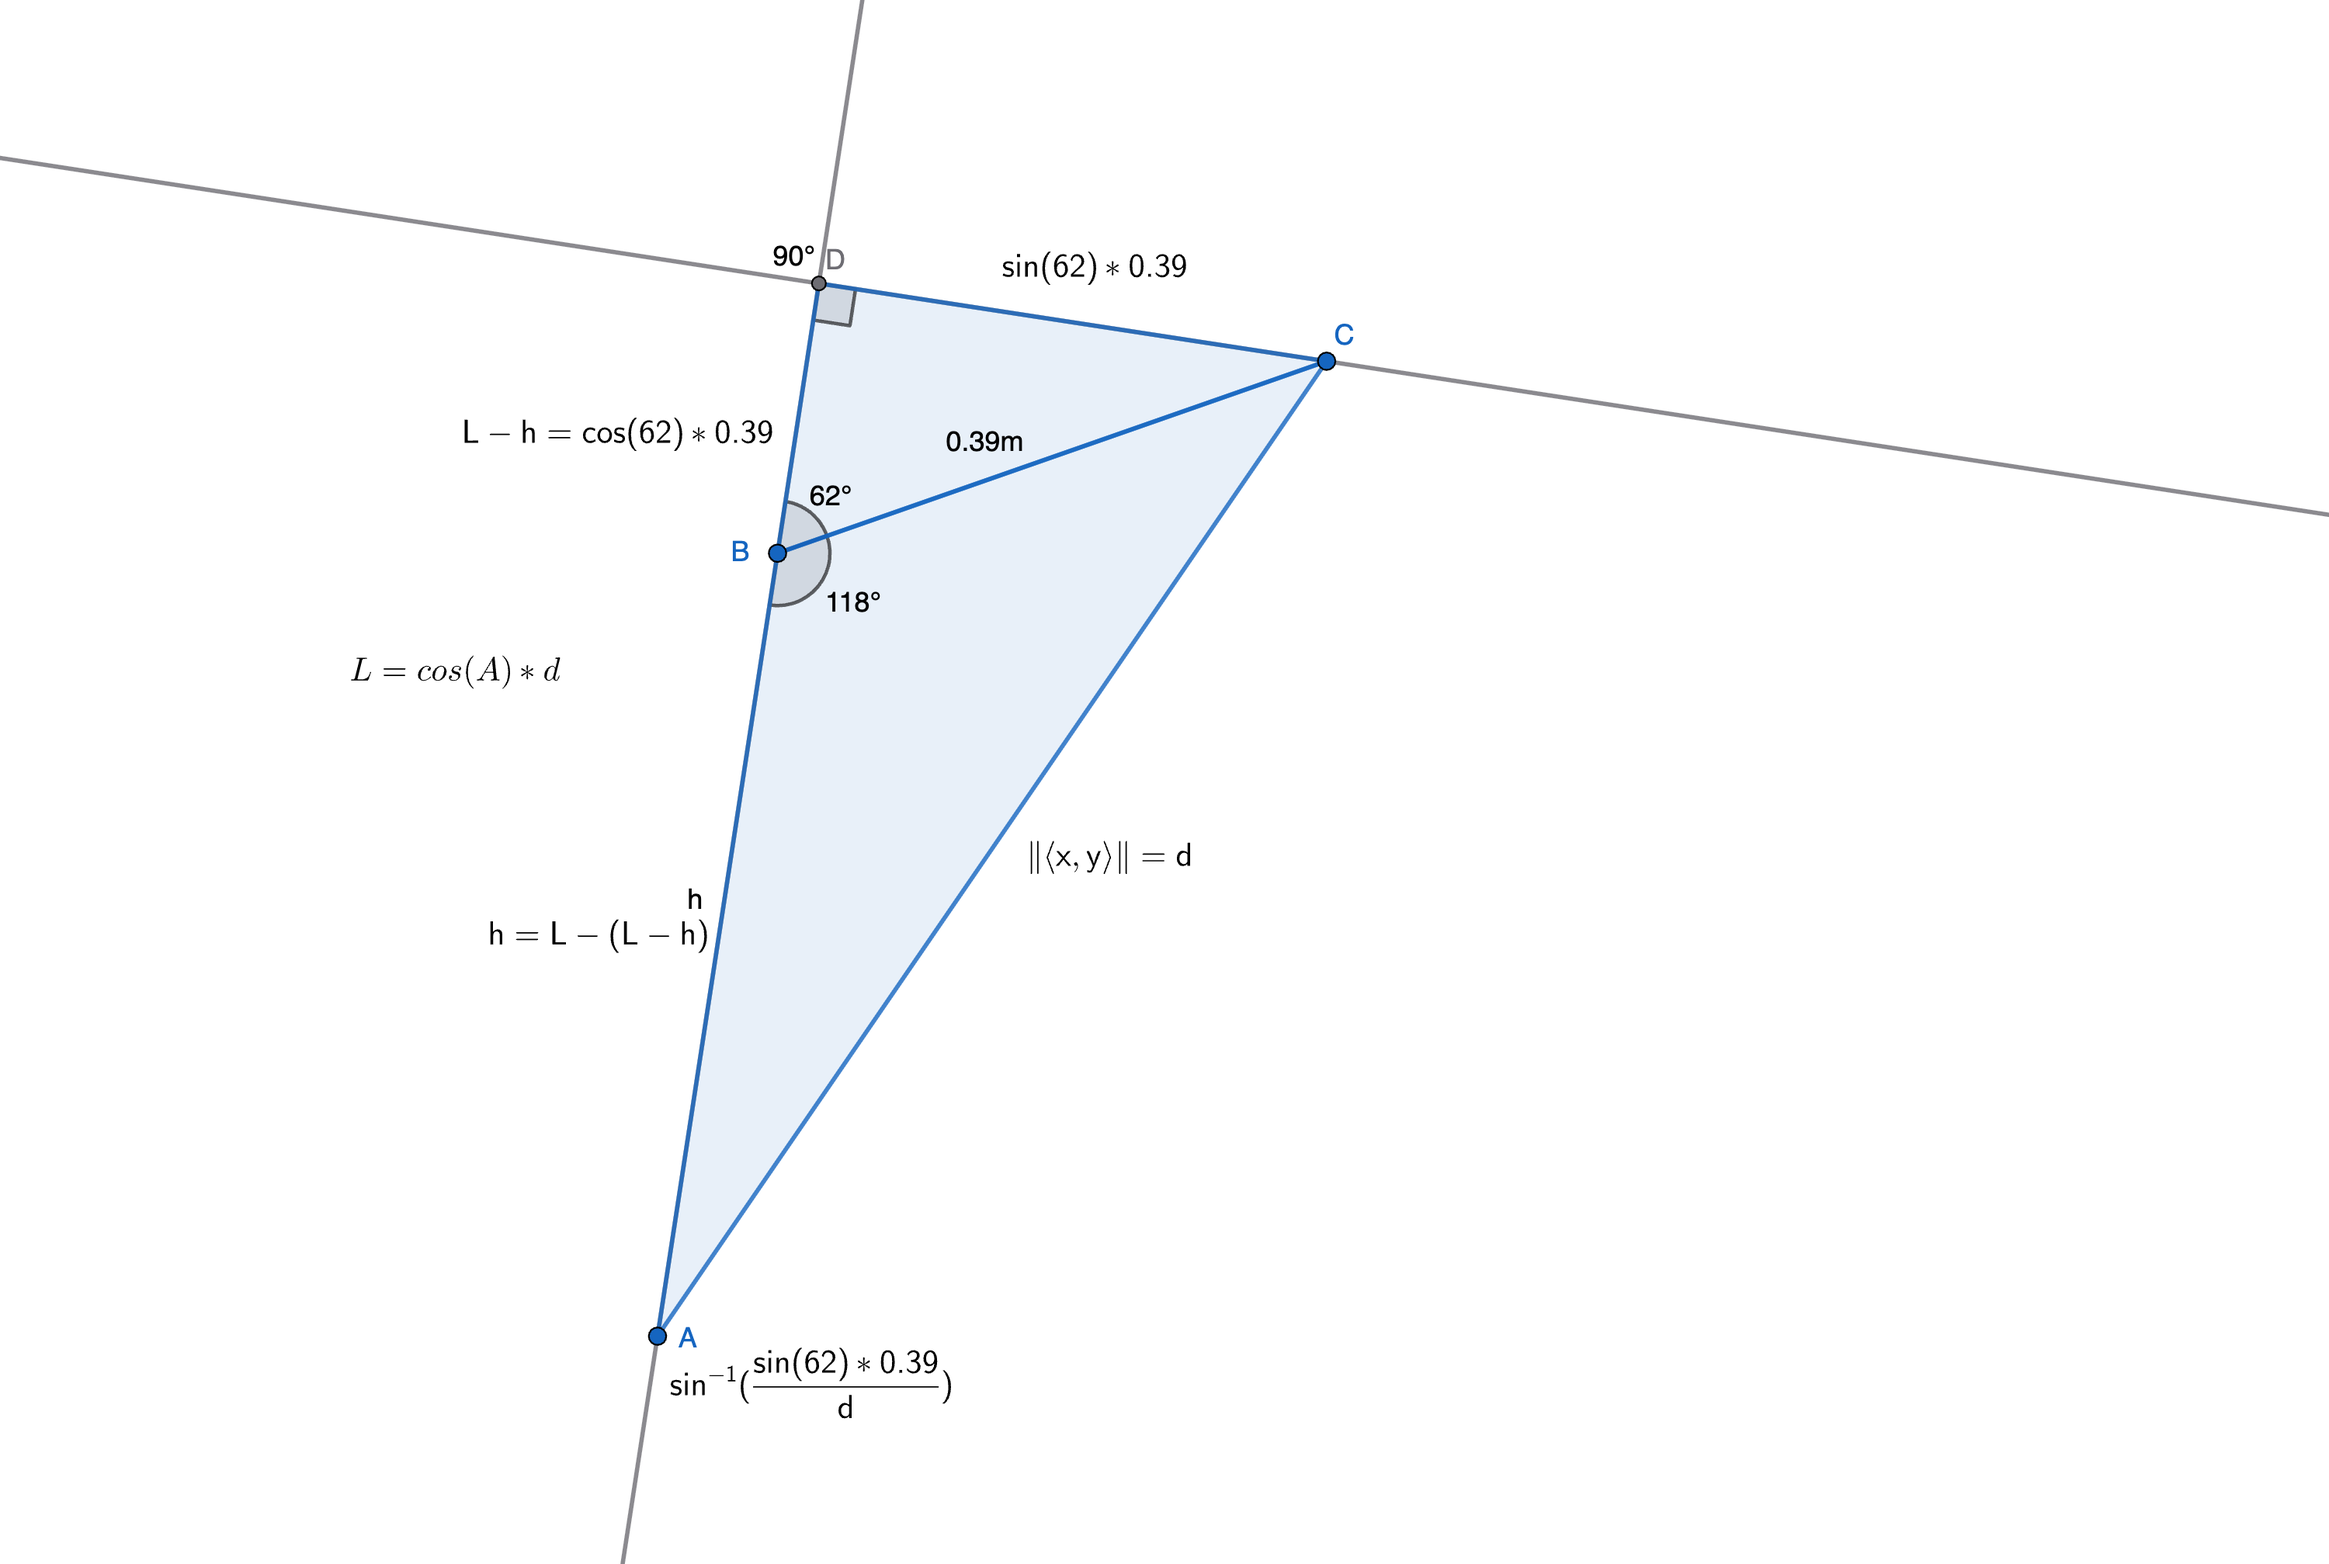
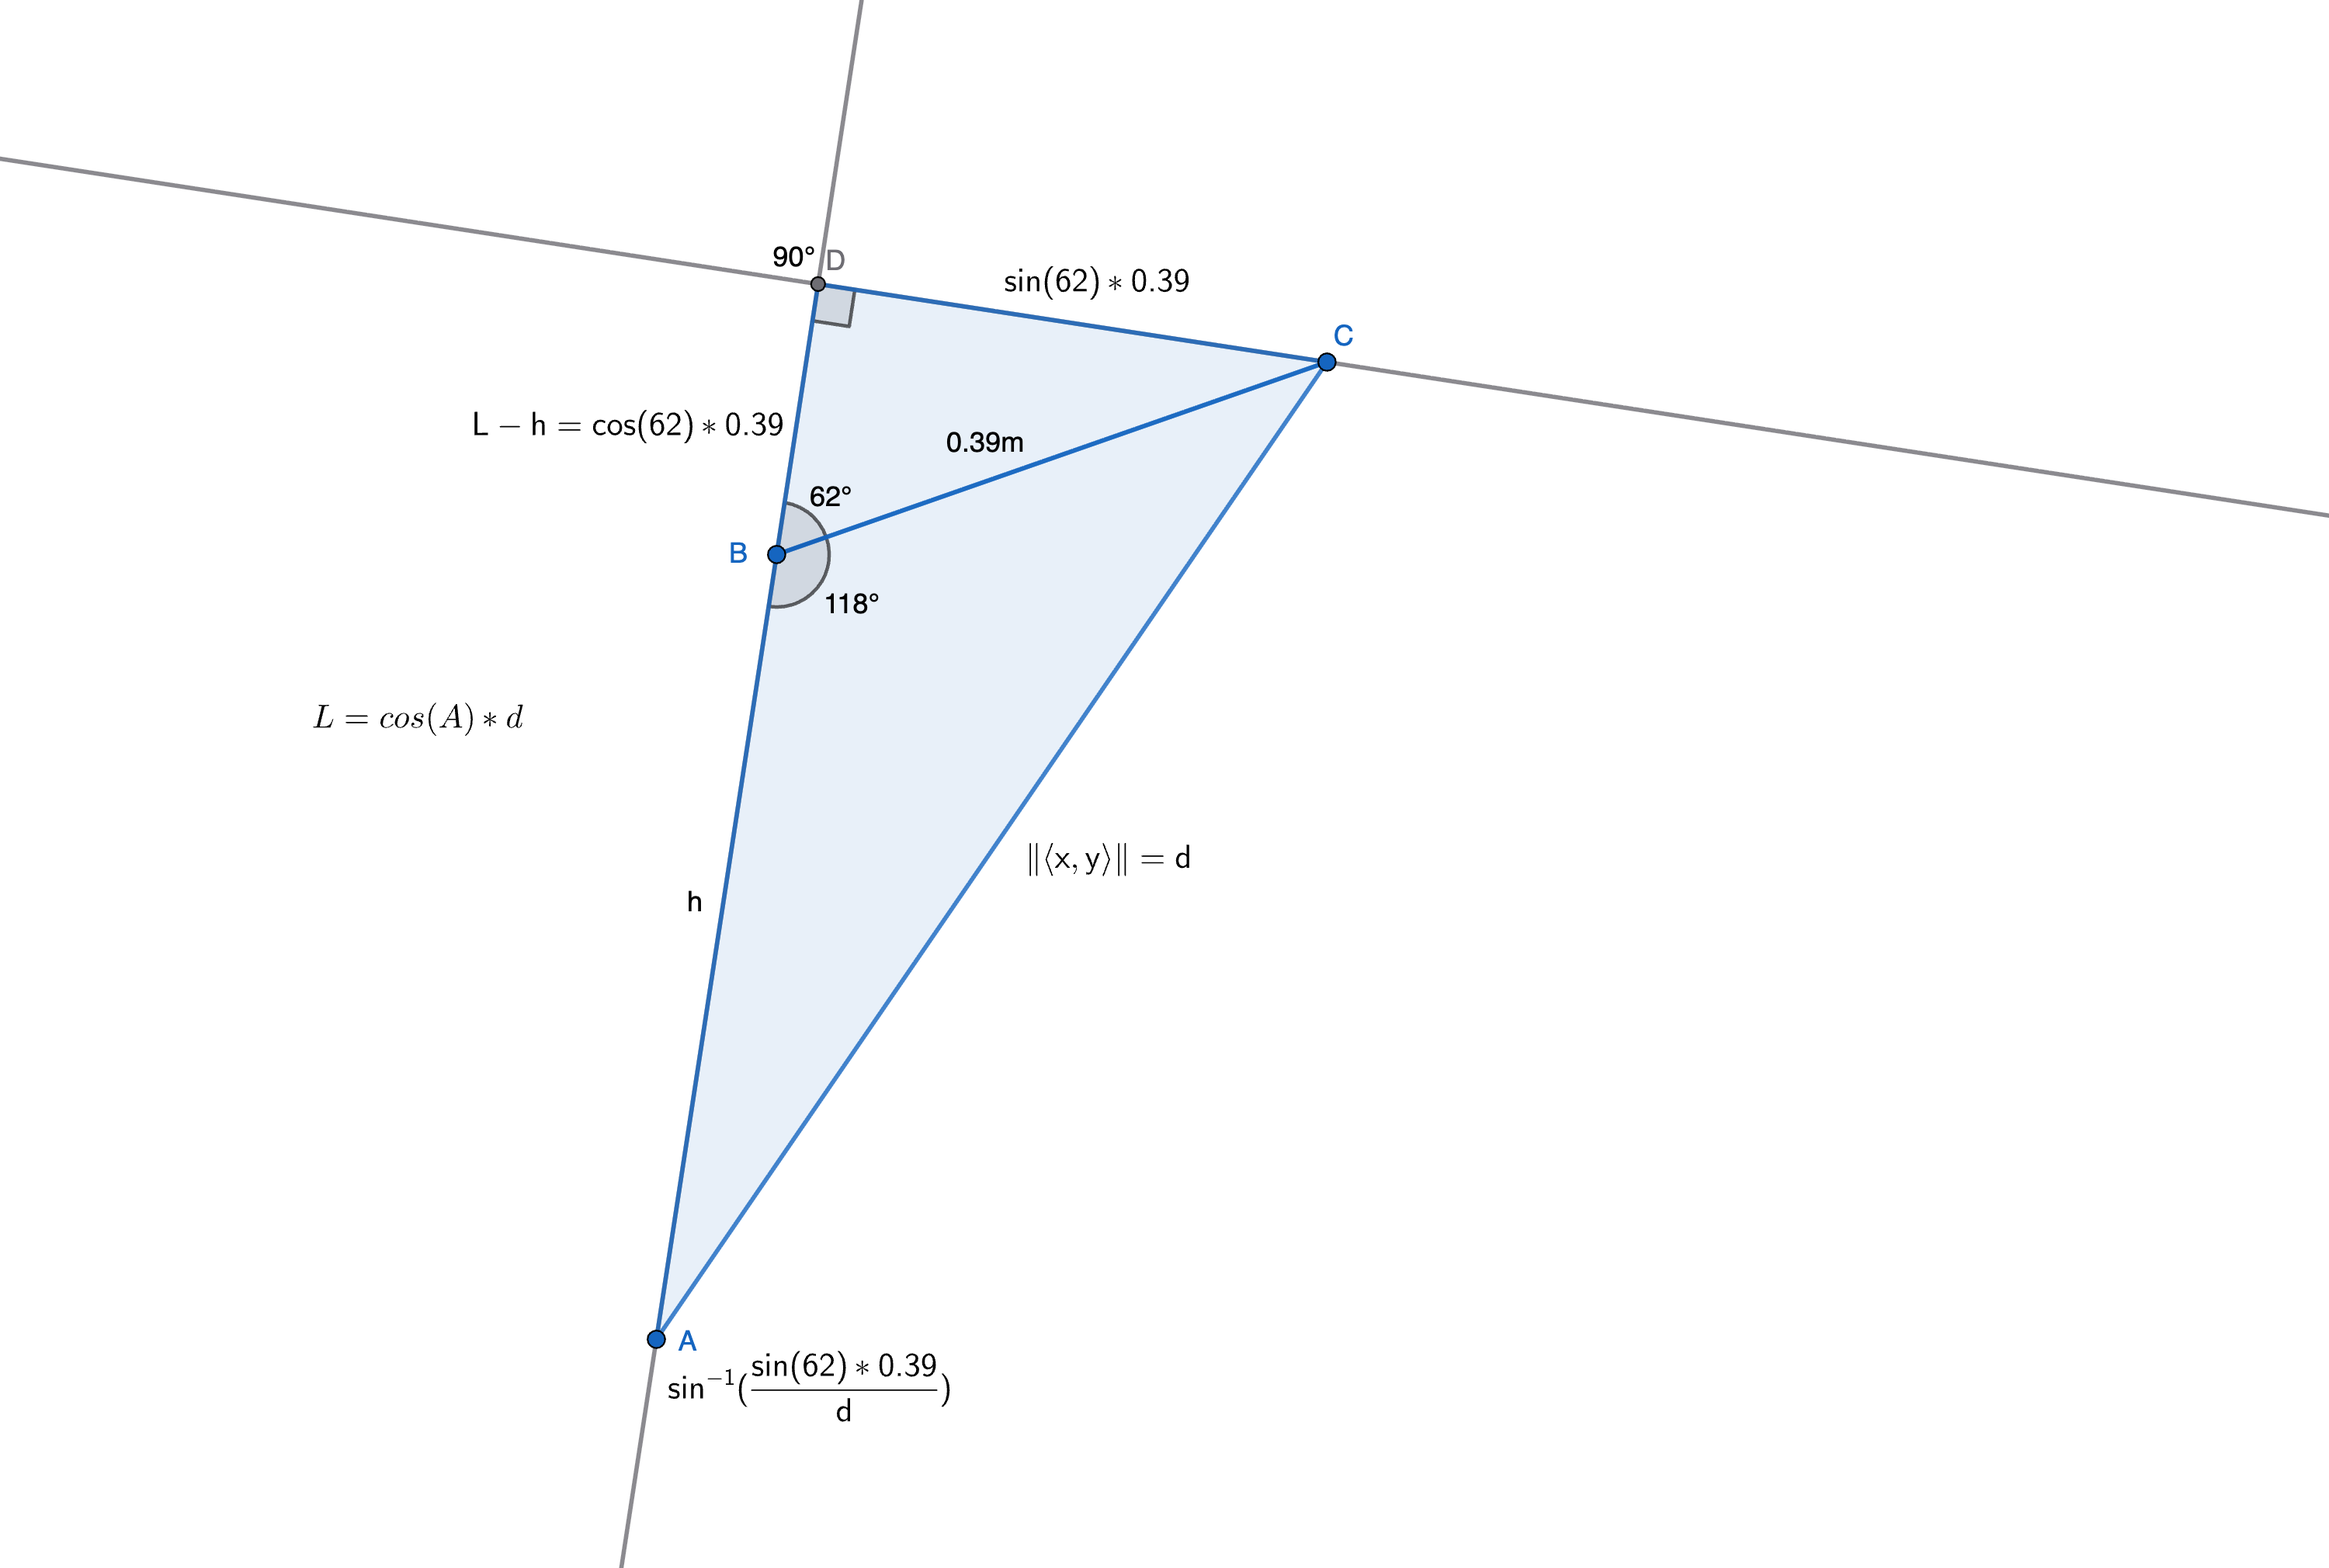
Finished Inverse Demo

diff --git a/app/library/kinematics/components/ik.tsx b/app/library/kinematics/components/ik.tsx
@@ -94,16 +94,15 @@ var gripper_segment = makeThickLine(
 );
 gripper_segment.material.linewidth = 4;
 
-export default function ForwardExample() {
+export default function InverseExample() {
   const [_renderer, setRenderer] = useState<THREE.WebGLRenderer>();
-  const [debugText, setDebugText] = useState<string>();
   const [first_term, setFirstTerm] = useState<string>();
   const [second_term, setSecondTerm] = useState<string>();
   const [third_term, setThirdTerm] = useState<string>();
 
-  const [pivot_deg, setPivotDeg] = useState(30);
-  const [elevator_height, setElevatorHeight] = useState(0.3);
-  const [wrist_deg, setWristDeg] = useState(-50);
+  const [target_x, setTargetX] = useState(0.8);
+  const [target_y, setTargetY] = useState(1.2);
+  const [endeff_angle, setEndEffAngle] = useState(-50);
 
   const [MousePosition, setMousePosition] = useState({
     left: 0,
@@ -126,41 +125,60 @@ export default function ForwardExample() {
     var centerx = offsets.x + offsets.width/2;
     var centery = offsets.y + offsets.height/2;
     var origin = new THREE.Vector3(0,0,0.1);
+    var endeff_point = new THREE.Vector3(target_x, target_y, 0.1);
     // Note the coordinate inversion here
 
     // Setup the base offset to the bottom of the lift
     var base_offset_points = [new THREE.Vector3(0, 0, 0.1), new THREE.Vector3(-0.3, 0.2, 0.1)]
     updateLineWithPoints(base_offset, base_offset_points);
+
+    // Setup the wrist/end eff
+    var gripper_points = [endeff_point,
+        new THREE.Vector3(Math.cos((endeff_angle)/180.0*Math.PI),
+                          Math.sin((endeff_angle)/180.0*Math.PI),
+                          0).multiplyScalar(-GRIPPER_LENGTH)
+                            .add(endeff_point)]
+    updateLineWithPoints(gripper_segment, gripper_points);
     
+    // Do some of our invkin math
+    var bottom_elevator = base_offset_points[1];
+    var wrist_point = gripper_points[1];
+    var distance = wrist_point.distanceTo(bottom_elevator);
+    var distance_vector = wrist_point.sub(bottom_elevator);
+
+    var subtriangle_angle_radians = Math.abs(CARRIAGE_MOUNT_ANGLE)/180.0*Math.PI;
+
+    var dc_length = Math.sin(subtriangle_angle_radians)*CARRIAGE_MOUNT_LENGTH;
+    var angle_a_radians = Math.asin(dc_length/distance);
+    var elevator_angle_radians = angle_a_radians +
+        Math.atan2(distance_vector.getComponent(1), distance_vector.getComponent(0));
+    console.log("elevator_angle_radians = y / x",
+      elevator_angle_radians,
+      distance_vector.getComponent(1),
+      distance_vector.getComponent(0));
+    var elevator_height = Math.cos(angle_a_radians)*distance -
+        Math.cos(subtriangle_angle_radians)*CARRIAGE_MOUNT_LENGTH;
+
     // Setup the length of the elevator
-    var elevator_points = [base_offset_points[1],
-        new THREE.Vector3(Math.cos(pivot_deg/180.0*Math.PI),
-                          Math.sin(pivot_deg/180.0*Math.PI),
+    var elevator_points = [bottom_elevator,
+        new THREE.Vector3(Math.cos(elevator_angle_radians),
+                          Math.sin(elevator_angle_radians),
                           0).multiplyScalar(elevator_height)
-                            .add(base_offset_points[1])]
+                            .add(bottom_elevator)]
     updateLineWithPoints(elevator_segment, elevator_points);
 
     // Setup the carriage mount
     var carriage_points = [elevator_points[1],
-        new THREE.Vector3(Math.cos((pivot_deg+CARRIAGE_MOUNT_ANGLE)/180.0*Math.PI),
-                          Math.sin((pivot_deg+CARRIAGE_MOUNT_ANGLE)/180.0*Math.PI),
+        new THREE.Vector3(Math.cos(elevator_angle_radians+CARRIAGE_MOUNT_ANGLE/180.0*Math.PI),
+                          Math.sin(elevator_angle_radians+CARRIAGE_MOUNT_ANGLE/180.0*Math.PI),
                           0).multiplyScalar(CARRIAGE_MOUNT_LENGTH)
                             .add(elevator_points[1])]
     updateLineWithPoints(carriage_mount, carriage_points);
 
-    // Setup the wrist/end eff
-    var gripper_points = [carriage_points[1],
-        new THREE.Vector3(Math.cos((pivot_deg+CARRIAGE_MOUNT_ANGLE+wrist_deg)/180.0*Math.PI),
-                          Math.sin((pivot_deg+CARRIAGE_MOUNT_ANGLE+wrist_deg)/180.0*Math.PI),
-                          0).multiplyScalar(GRIPPER_LENGTH)
-                            .add(carriage_points[1])]
-    updateLineWithPoints(gripper_segment, gripper_points);
-
     // Display EndEffector value
-    setDebugText(`End Effector Location =`);
-    setFirstTerm(`${gripper_points[1].getComponent(0)}`);
-    setSecondTerm(`${gripper_points[1].getComponent(1)}`);
-    setThirdTerm(`${gripper_points[1].getComponent(2)}`);
+    setFirstTerm(`Base Pivot Angle: ${elevator_angle_radians*180.0/Math.PI}`);
+    setSecondTerm(`Elevator Height: ${elevator_height}`);
+    setThirdTerm(`Wrist Angle: ${elevator_angle_radians*180.0/Math.PI+CARRIAGE_MOUNT_ANGLE+endeff_angle}`);
   }
 
   useEffect(() => {
@@ -188,7 +206,7 @@ export default function ForwardExample() {
 
 
     controls.update();
-    controls.enabled = false;
+    // controls.enabled = false;
     animate();
 
     function animate() {
@@ -210,40 +228,39 @@ export default function ForwardExample() {
       onMouseMove={handleMouseMove}
     >
       <Container id="fk" child={_renderer.domElement} />
-      <div>{debugText}</div>
-      <div>&lt;{first_term},</div>
-      <div>{second_term},</div>
-      <div>0&gt;</div>
+      <div>{first_term}</div>
+      <div>{second_term}</div>
+      <div>{third_term}</div>
       <div>
-          Base Pivot Angle: <Slider progress
+          Target X: <Slider progress
                     style={{ marginTop: 16 }}
-                    min={0}
-                    value={pivot_deg}
-                    max={100}
-                    step={1.0}
+                    min={-1}
+                    value={target_x}
+                    max={2.5}
+                    step={0.1}
                     onChange={value => {
                       // current_position.setComponent(0, pivot_deg);
-                      setPivotDeg(value);
+                      setTargetX(value);
                     }} />
-          Elevator Height: <Slider progress
+          Target Y: <Slider progress
                     style={{ marginTop: 16 }}
                     min={0}
-                    value={elevator_height}
+                    value={target_y}
                     max={3}
                     step={0.1}
                     onChange={value => {
                       // current_position.setComponent(1, elevator_height);
-                      setElevatorHeight(value);
+                      setTargetY(value);
                     }} />
-          Wrist Angle: <Slider progress
+          EndEff Angle: <Slider progress
                     style={{ marginTop: 16 }}
-                    min={-70}
-                    value={wrist_deg}
-                    max={10}
-                    step={0.1}
+                    min={-90}
+                    value={endeff_angle}
+                    max={90}
+                    step={1}
                     onChange={value => {
                       // current_position.setComponent(1, wrist_deg);
-                      setWristDeg(value);
+                      setEndEffAngle(value);
                     }} />
         </div>
     </div>

diff --git a/app/library/kinematics/kinematics2025.tsx b/app/library/kinematics/kinematics2025.tsx
@@ -3,6 +3,9 @@ import Image from 'next/image';
 import trianglesolve from './images/inv_trig_2025_solution.png';
 
 import ForwardExample from './components/fk';
+import InverseExample from './components/ik';
+
+import robot from './images/2025robot.png';
 
 export function Kinematics2025() {
     return <>
@@ -10,6 +13,10 @@ export function Kinematics2025() {
       So lets take a look at how some of these concepts can be used, and look at the
       2 jointed robot design from 2025, <i>Angler</i>.
     </p>
+
+    <div className="centered-content">
+      <Image src={robot} width="500" alt="Chaos's 2025 robot" />
+    </div>
 
     <hr />
 
@@ -101,6 +108,25 @@ export function Kinematics2025() {
     <div>
       Now, having this, we can derive what the angle of the base pivot is to put our wrist
       in the right spot, as well as the angle of the wrist relative to the lift.
+    </div>
+
+    <div className='centered-content'>
+      <InverseExample />
+    </div>
+
+    <div>
+      As you control the target location, you can see how the robot re-orients its parts
+      to calculate the 3 terms from earlier. See how close the values get to the previous
+      demo above? By implementing a few constraints into the problem, and blending
+      techniques, you can simplify many Inverse Kinematic problems!
+    </div>
+
+    <div>
+      You might notice you can shove the end effector right through the robot itself, that's
+      no good! It's important when designing systems like this to enforce bounds on joints,
+      and range of things. For instance, we don't ever want the lift on the 2025 robot to
+      rotate backwards too much. We <i>also</i> don't want to shove the gripper through the
+      bottom. Setting a range of acceptable values is critical to a functioning robot.
     </div>
 
     </>;
